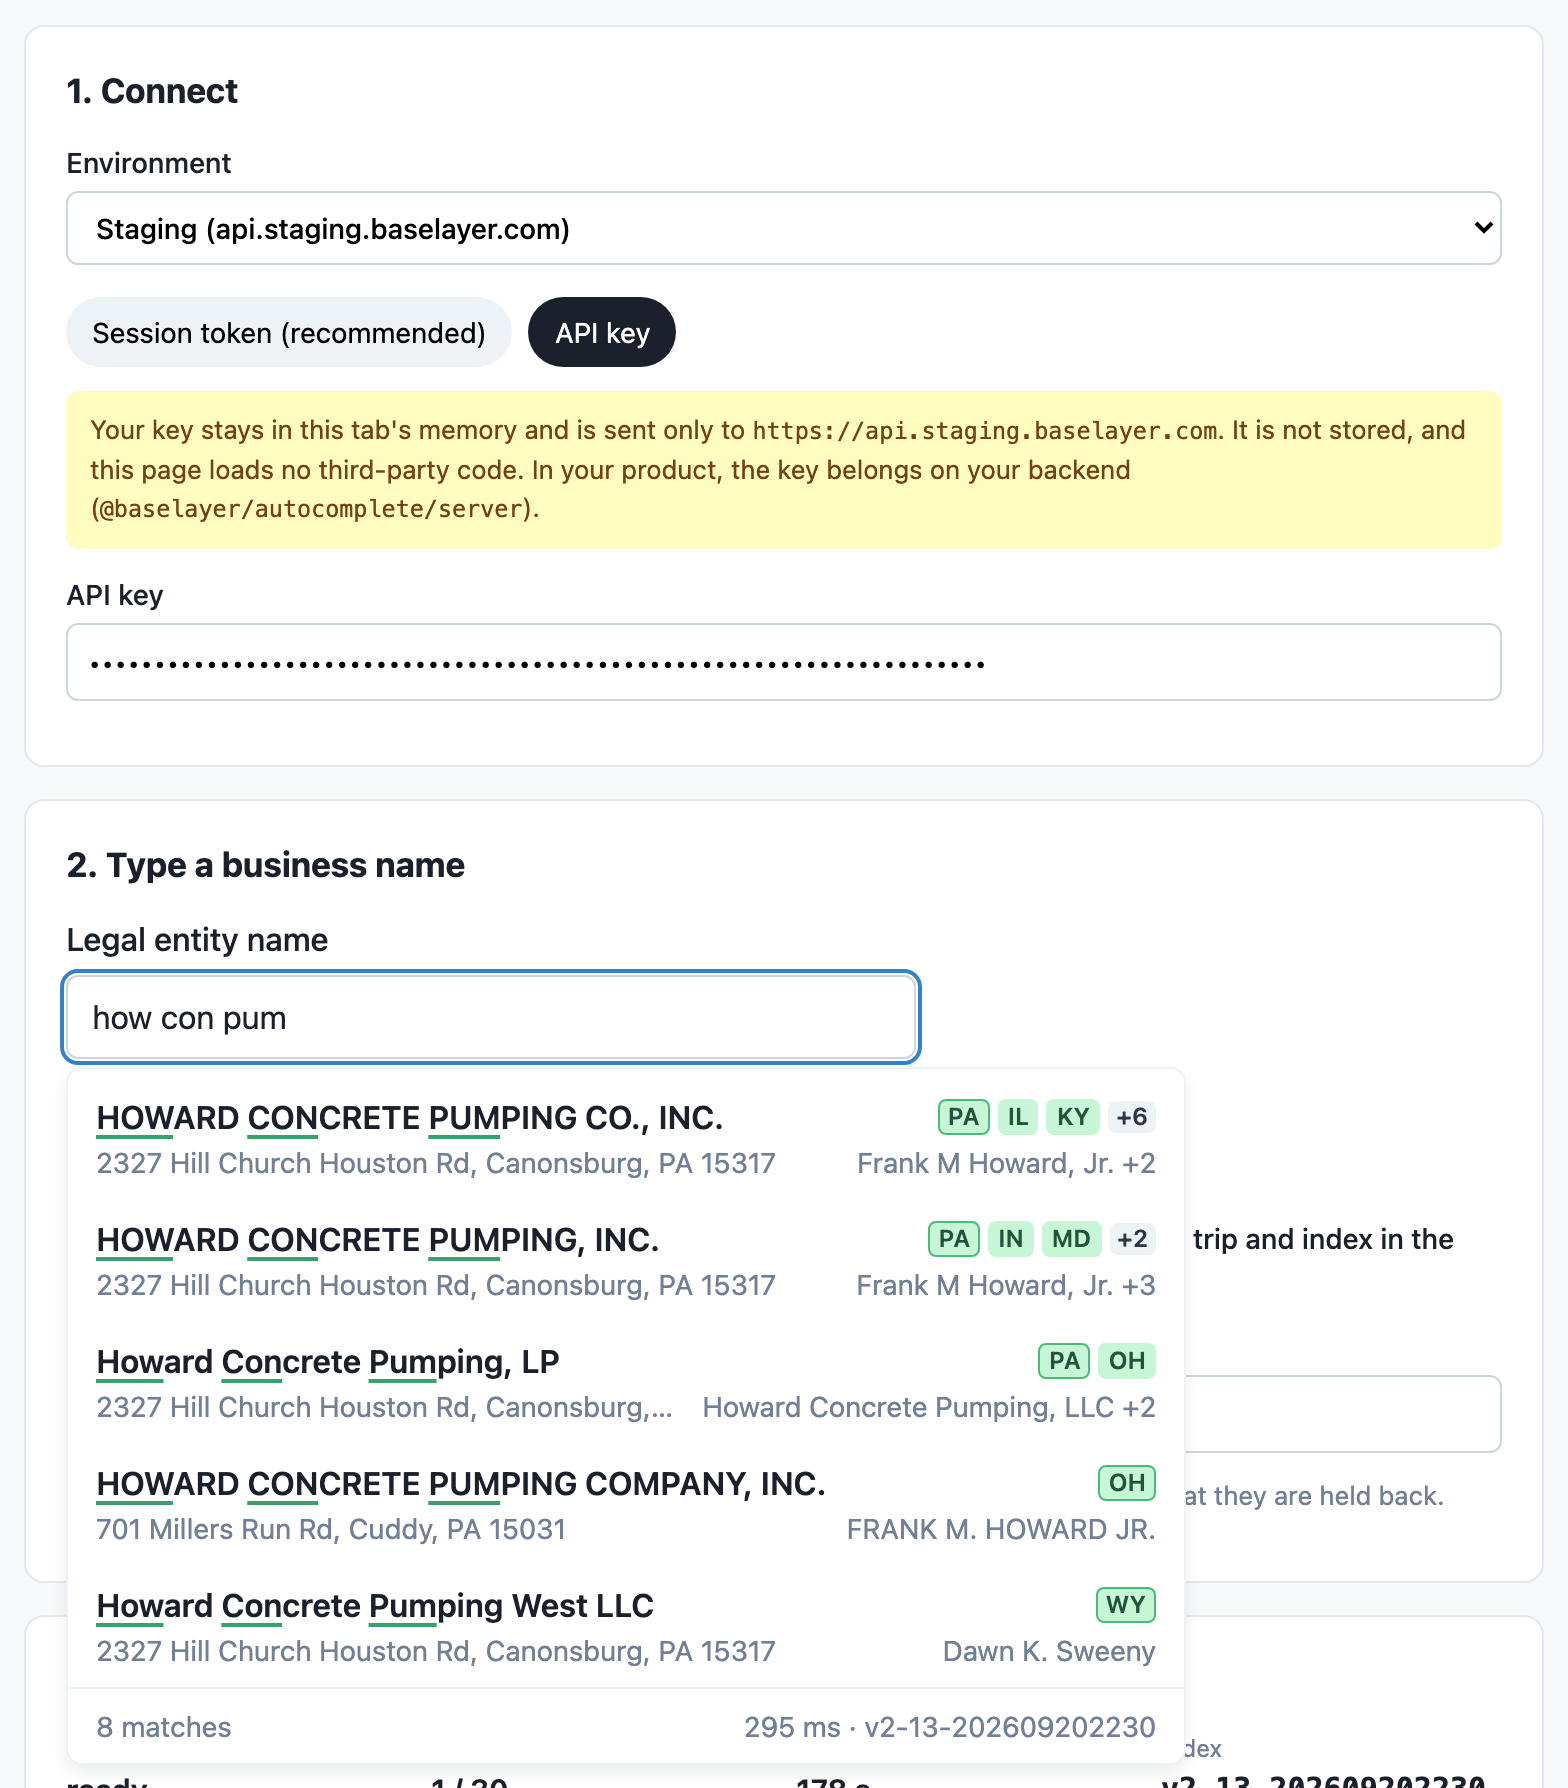
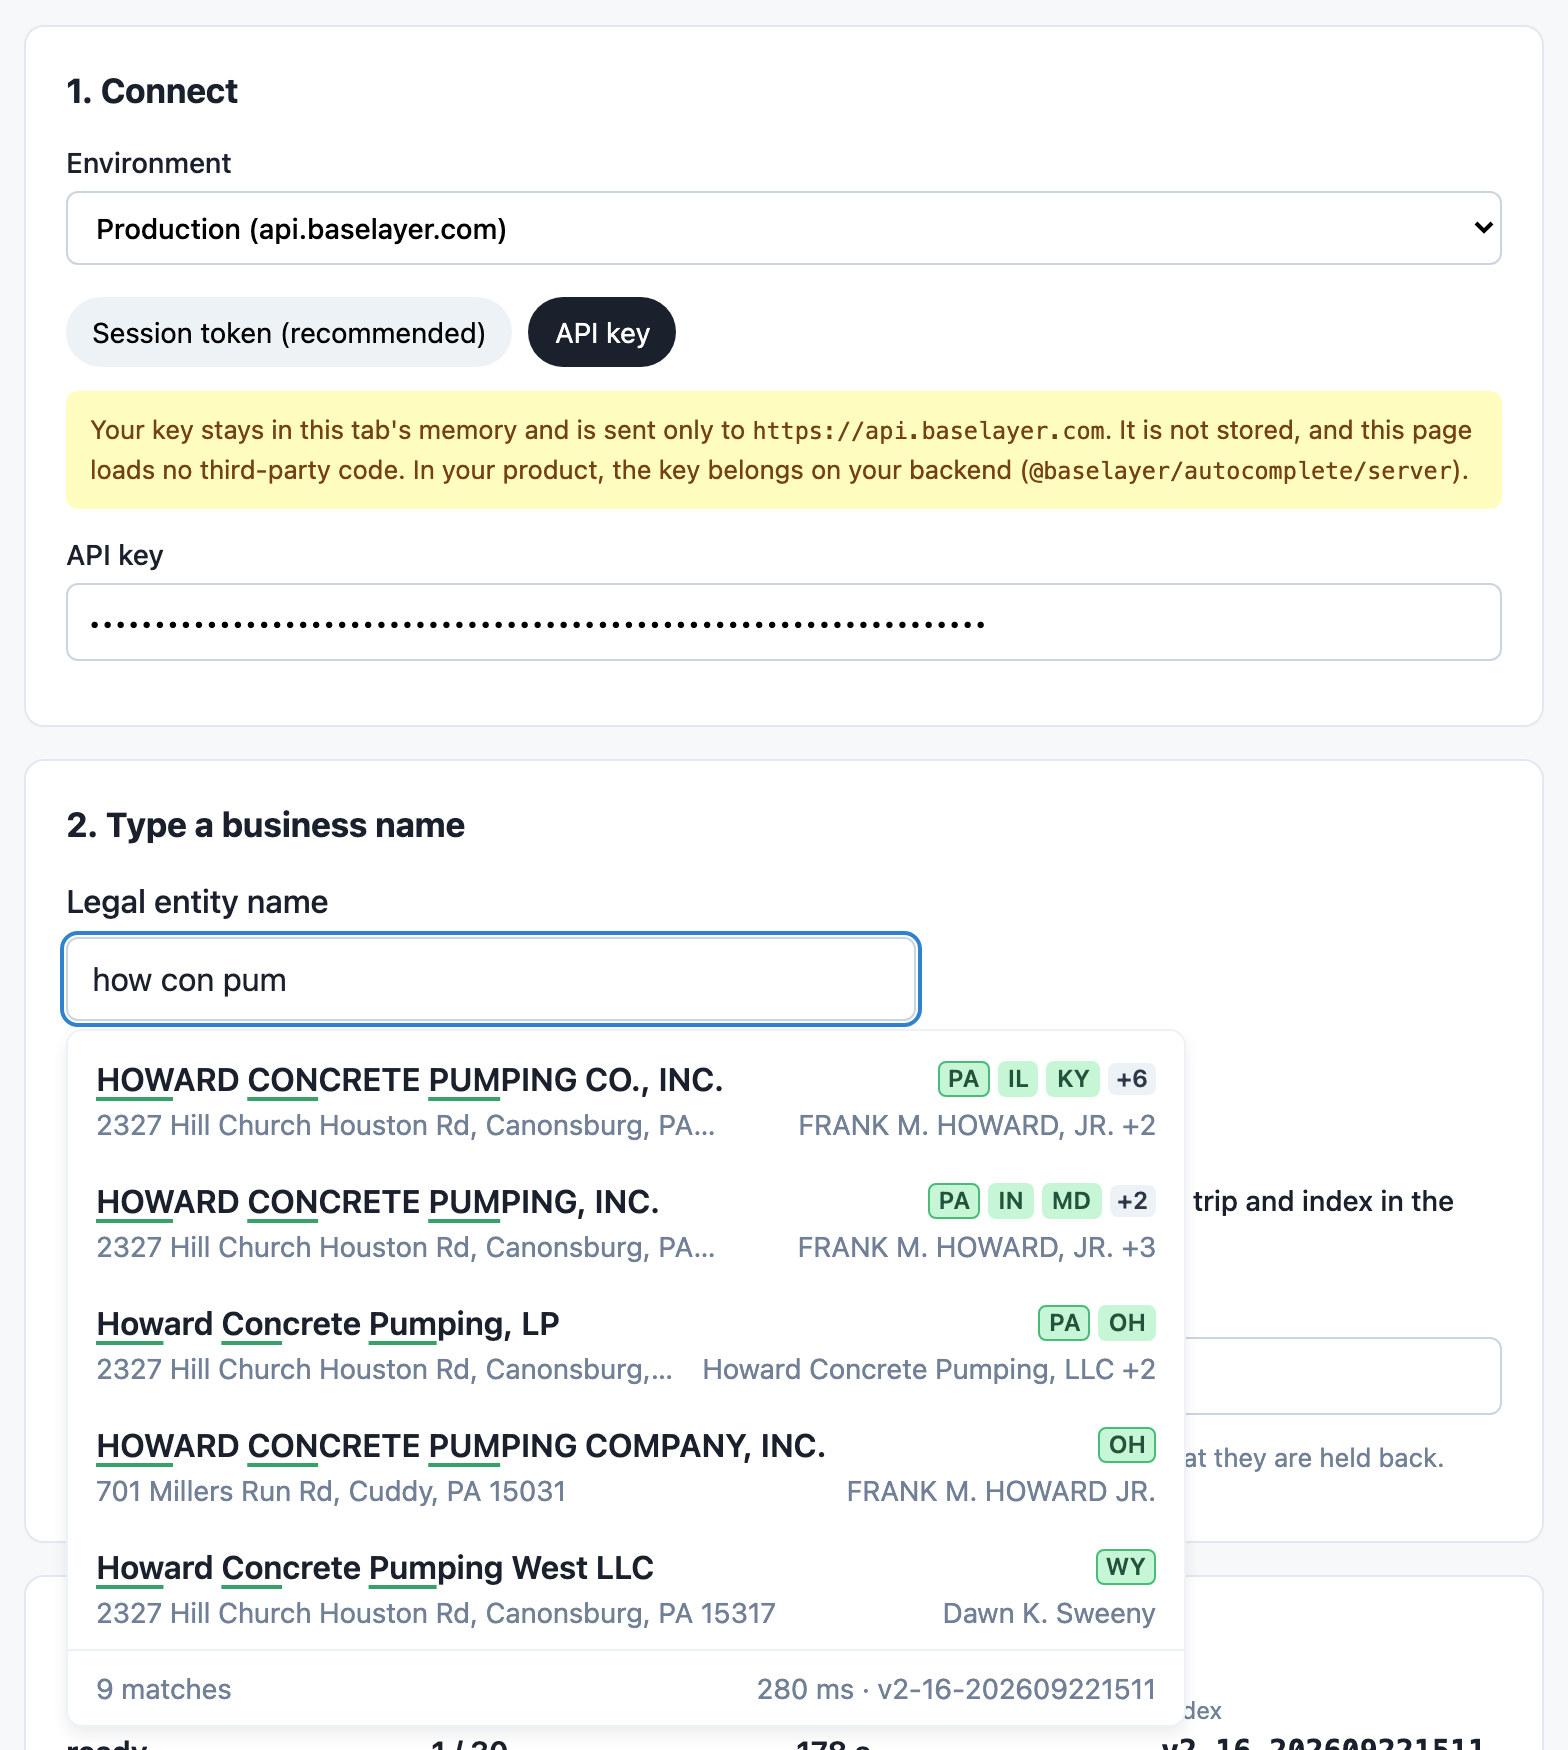
Point the demo, the docs and every screenshot at production
The autocomplete tier serves production now. The demo defaults to api.baselayer.com and drops its staging option (Custom URL remains for any other host), its Content-Security-Policy no longer names the staging host, and the docs describe production: the served index v2-16-202609221511, and the one prerequisite still missing there, which is that the tier and the mint answer CORS for the demo's origin once osiris-app ENG-7947 is deployed. Every screenshot is retaken against production: the console typeahead in the design record, and the demo in token and API-key modes. Until ENG-7947 ships, the test browser relayed the demo's calls to production, which the demo page says.

diff --git a/demo/App.tsx b/demo/App.tsx
@@ -18,7 +18,6 @@ import { keyMint, readClaims, tokenMint } from "./credentials";
 
 const ENVIRONMENTS = {
   production: "https://api.baselayer.com",
-  staging: "https://api.staging.baselayer.com",
 } as const;
 type Environment = keyof typeof ENVIRONMENTS | "custom";
 type Mode = "token" | "key";
@@ -127,7 +126,7 @@ function SessionMeters({ client }: { client: AutocompleteClient }) {
 }
 
 export function App() {
-  const [environment, setEnvironment] = useState<Environment>("staging");
+  const [environment, setEnvironment] = useState<Environment>("production");
   const [customUrl, setCustomUrl] = useState("");
   const [mode, setMode] = useState<Mode>("token");
   const [secret, setSecret] = useState("");
@@ -192,9 +191,6 @@ export function App() {
               value={environment}
               onChange={e => setEnvironment(e.target.value as Environment)}
             >
-              <option value="staging">
-                Staging (api.staging.baselayer.com)
-              </option>
               <option value="production">Production (api.baselayer.com)</option>
               <option value="custom">Custom URL</option>
             </select>

diff --git a/demo/vite.config.ts b/demo/vite.config.ts
@@ -17,7 +17,7 @@ function contentSecurityPolicy(): Plugin {
     "script-src 'self'",
     "style-src 'self' 'unsafe-inline'",
     "img-src 'self' data:",
-    "connect-src https://api.baselayer.com https://api.staging.baselayer.com https:",
+    "connect-src https://api.baselayer.com https:",
     "base-uri 'self'",
     "form-action 'none'",
   ].join("; ");

diff --git a/docs/demo.md b/docs/demo.md
@@ -5,13 +5,20 @@ log of what the SDK does on every keystroke: each mint, each request, the
 recovery it chose, the session's budget and expiry, and the index that
 answered.
 
-![The demo answering "osiris ra" against staging](images/demo-typeahead-osiris-ra.png)
+![The demo answering "osiris ra" in production](images/demo-typeahead-osiris-ra.png)
 
 It is published from this repository's `main` to GitHub Pages by the
 `Demo` workflow, at <https://curly-adventure-y83og2w.pages.github.io/>.
 While the repository is private, so is the site: open it signed in to
 GitHub as a member of the osiris-ratings organization. The address changes
 when the site goes public.
+
+The page talks to the production API, `https://api.baselayer.com`, from
+the browser. That needs the autocomplete tier to answer CORS for the demo's
+origin and the API to accept its mint, which osiris-app ENG-7947 deploys;
+until it is in production the browser refuses both calls. The screenshots
+below are production answers, taken while the calls were relayed by the
+test browser's harness rather than made by the page.
 
 ## Connecting
 
@@ -52,8 +59,11 @@ pnpm install
 pnpm demo        # http://localhost:3000
 ```
 
-The staging API accepts requests from `http://localhost:3000`, so both
-ways in work locally against staging.
+Locally the page runs on `http://localhost:3000`. Production accepts a
+session token from there once the tier answers CORS for every origin
+(ENG-7947); the API-key mode needs the API to list the page's origin, which
+production does for the hosted demo only. For another environment, pick
+**Custom URL** and give its API host.
 
 ## What it shows
 

diff --git a/docs/design.md b/docs/design.md
@@ -39,8 +39,8 @@ documentation (see "SDK documentation").
 
 ## What the SDK reproduces
 
-The console's typeahead as it stands, captured on 2026-09-22 against the
-staging index `v2-13-202609202230`. Each row is the canonical name with the
+The console's typeahead as it stands, captured on 2026-09-23 against the
+production index `v2-16-202609221511`. Each row is the canonical name with the
 matched words marked, the family's states as squares (domicile first),
 the lead address and the lead officer; the footer carries the count. The
 styled layer of the SDK has to draw exactly this, and the console's
@@ -1150,7 +1150,7 @@ E  1.0.0: repo public, provenance, docs page, public OpenAPI      after all
 P and A start together; S, B follow A; C and D run in parallel after B;
 E closes. Each step has a checkpoint:
 
-- **P**: a request from a foreign origin passes preflight on staging; the
+- **P**: a request from a foreign origin passes preflight in production; the
   mint appears in `task generate:openapi:public`.
 - **A**: 0.1.0 on npm; the five ported core and hook suites green in
   vitest; a test asserts the core imports no React.
